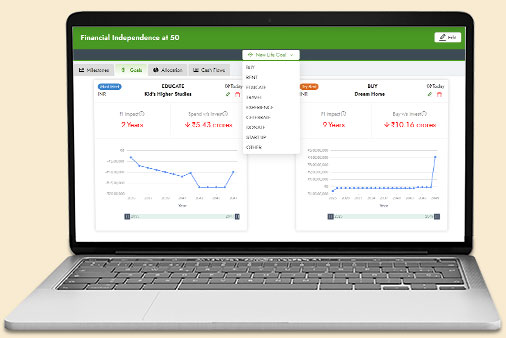
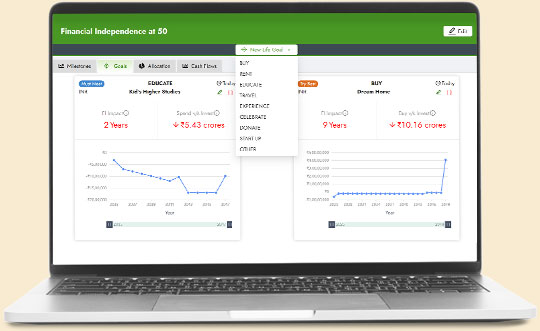
Steps images replaced

diff --git a/src/components/landing/Calculator.less b/src/components/landing/Calculator.less
@@ -11,7 +11,7 @@
 	border-radius: @calculator-radius;
 	box-shadow: 0 0 10px #6c6c6c;
 	padding: 5px;
-	margin-top: 100px;
+	margin-top: 20px;
 	margin-bottom: 100px;
 
 	& > div {

diff --git a/src/components/landing/GettingStarted.less b/src/components/landing/GettingStarted.less
@@ -4,7 +4,7 @@
 	padding: 25px 40px;
 
 	& .ant-image {
-		padding: 80px 0;
+		padding: 8px 0;
 	}
 }
 

diff --git a/src/components/landing/Step.less b/src/components/landing/Step.less
@@ -57,7 +57,7 @@
 		}
 
 		& .ant-image {
-			padding: 44px 0;
+			padding: 58px 0;
 		}
 	}
 
